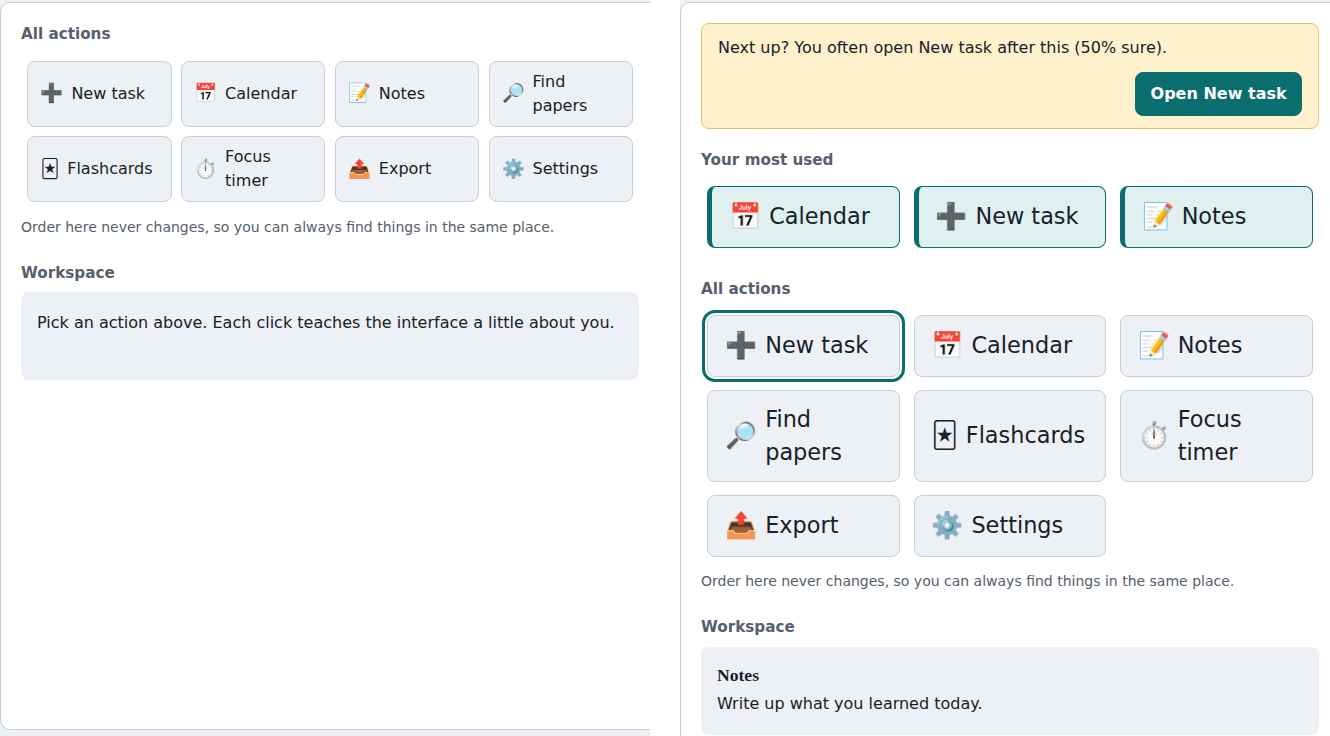
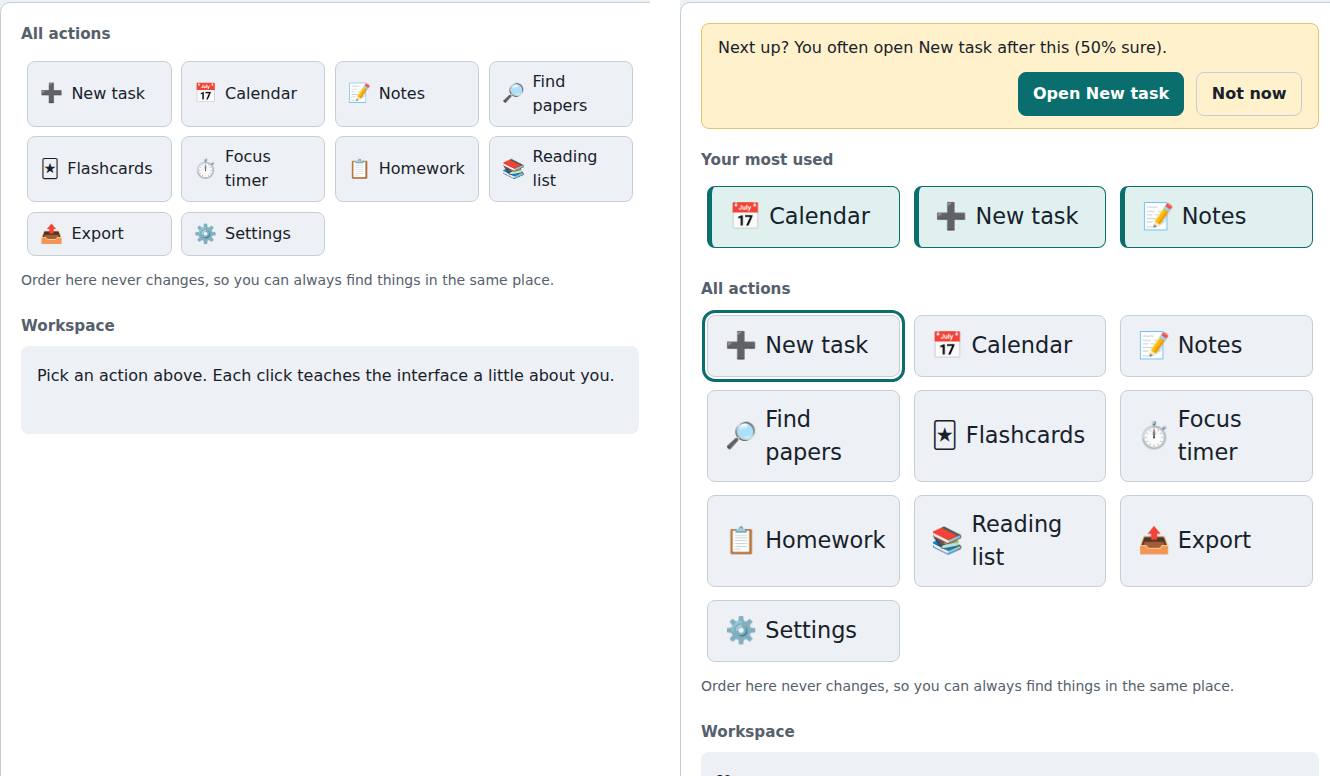
Update StudyDesk to new version

diff --git a/StudyDesk/js/app.js b/StudyDesk/js/app.js
@@ -22,6 +22,8 @@
     { id: "papers", label: "Find papers", icon: "\uD83D\uDD0E", blurb: "Search journals and your saved sources." },
     { id: "flashcards", label: "Flashcards", icon: "\uD83C\uDCCF", blurb: "Review terms before the quiz." },
     { id: "timer", label: "Focus timer", icon: "\u23F1\uFE0F", blurb: "Start a 25 minute focus block." },
+    { id: "homework", label: "Homework", icon: "\uD83D\uDCCB", blurb: "See what is due and submit your work." },
+    { id: "reading", label: "Reading list", icon: "\uD83D\uDCDA", blurb: "Pick up the next paper on your list." },
     { id: "export", label: "Export", icon: "\uD83D\uDCE4", blurb: "Save your notes as a document." },
     { id: "settings", label: "Settings", icon: "\u2699\uFE0F", blurb: "Change how StudyDesk looks and behaves." },
   ];
@@ -53,7 +55,7 @@
         STORAGE_KEY,
         JSON.stringify({
           usage: { scores: usage.scores, counts: usage.counts },
-          sequence: { transitions: sequence.transitions, last: sequence.last },
+          sequence: { transitions: sequence.transitions, last: sequence.last, dismissals: sequence.dismissals },
           pointer: { samples: pointer.samples, missRate: pointer.missRate, level: pointer.level },
           promotedIds,
         })
@@ -71,6 +73,7 @@
       Object.assign(usage.counts, saved.usage.counts);
       sequence.transitions = saved.sequence.transitions || {};
       sequence.last = saved.sequence.last || null;
+      sequence.dismissals = saved.sequence.dismissals || {};
       Object.assign(pointer, saved.pointer);
       promotedIds = (saved.promotedIds || []).filter((id) => IDS.includes(id));
     } catch (err) {
@@ -140,7 +143,12 @@
     btn.dataset.id = suggestionId;
     btn.dataset.suggested = "true";
     btn.textContent = `Open ${byId[suggestionId].label}`;
-    box.replaceChildren(text, btn);
+    const notNow = document.createElement("button");
+    notNow.type = "button";
+    notNow.className = "btn btn-quiet";
+    notNow.dataset.dismiss = "true";
+    notNow.textContent = "Not now";
+    box.replaceChildren(text, btn, notNow);
     box.hidden = false;
   }
 
@@ -272,10 +280,20 @@
 
   $("suggestion").addEventListener("click", (event) => {
     const btn = event.target.closest("button");
-    if (btn && !busy) {
-      onPointer(true);
-      onAction(btn.dataset.id, { fromSuggestion: true });
+    if (!btn || busy) return;
+    if (btn.dataset.dismiss) {
+      // Easy dismissal: the person can reject a suggestion, and the model learns from it.
+      const rejected = suggestionId;
+      sequence.dismiss(rejected);
+      const guess = sequence.predict();
+      suggestionId = guess ? guess.id : null;
+      addLog(`You dismissed the suggestion ${byId[rejected].label}. It will be suggested less often.`);
+      renderAll();
+      save();
+      return;
     }
+    onPointer(true);
+    onAction(btn.dataset.id, { fromSuggestion: true });
   });
 
   $("adaptToggle").addEventListener("change", (event) => {

diff --git a/StudyDesk/js/model.js b/StudyDesk/js/model.js
@@ -83,6 +83,17 @@
       this.alpha = alpha; // Laplace smoothing so unseen transitions are not 0%
       this.transitions = {};
       this.last = null;
+      // Dismissals: how many times the person said "not now" to a suggestion
+      // (from -> to). Each one cancels `dismissPenalty` observed transitions.
+      this.dismissals = {};
+      this.dismissPenalty = 2;
+    }
+
+    /** The person rejected the suggestion "to" after "from". Suggest it less. */
+    dismiss(to, from = this.last) {
+      if (from === null || !this.ids.includes(to)) return;
+      const row = (this.dismissals[from] ||= {});
+      row[to] = (row[to] || 0) + 1;
     }
 
     record(id) {
@@ -103,11 +114,14 @@
     distribution(from = this.last) {
       if (from === null) return {};
       const row = this.transitions[from] || {};
-      const total = this.observationsFrom(from);
-      const denom = total + this.alpha * this.ids.length;
-      return Object.fromEntries(
-        this.ids.map((id) => [id, ((row[id] || 0) + this.alpha) / denom])
+      const rejected = this.dismissals[from] || {};
+      // Observed counts minus the weight of any dismissals (never below zero).
+      const counts = Object.fromEntries(
+        this.ids.map((id) => [id, Math.max(0, (row[id] || 0) - this.dismissPenalty * (rejected[id] || 0))])
       );
+      const total = Object.values(counts).reduce((sum, n) => sum + n, 0);
+      const denom = total + this.alpha * this.ids.length;
+      return Object.fromEntries(this.ids.map((id) => [id, (counts[id] + this.alpha) / denom]));
     }
 
     /**

diff --git a/StudyDesk/tests/model.test.js b/StudyDesk/tests/model.test.js
@@ -72,6 +72,28 @@ test("SequenceModel: probabilities sum to 1", () => {
   assert.ok(Math.abs(total - 1) < 1e-9);
 });
 
+test("SequenceModel: dismissing a suggestion lowers it until it stops appearing", () => {
+  const m = new SequenceModel(IDS);
+  for (let i = 0; i < 5; i++) ["a", "b", "c"].forEach((id) => m.record(id));
+  m.record("a");
+  const before = m.predict();
+  assert.strictEqual(before.id, "b");
+  m.dismiss("b");
+  const afterOne = m.distribution().b;
+  assert.ok(afterOne < before.confidence, "one dismissal should lower confidence");
+  m.dismiss("b");
+  m.dismiss("b");
+  assert.strictEqual(m.predict(), null, "three dismissals should silence it");
+});
+
+test("SequenceModel: probabilities still sum to 1 after dismissals", () => {
+  const m = new SequenceModel(IDS);
+  ["a", "b", "a", "b", "a", "c", "a"].forEach((id) => m.record(id));
+  m.dismiss("b");
+  const total = Object.values(m.distribution()).reduce((s, p) => s + p, 0);
+  assert.ok(Math.abs(total - 1) < 1e-9);
+});
+
 test("PointerModel: accurate clicking keeps buttons at normal size", () => {
   const m = new PointerModel();
   for (let i = 0; i < 30; i++) m.record(true);

diff --git a/StudyDesk/css/style.css b/StudyDesk/css/style.css
@@ -91,7 +91,7 @@ body {
   background: var(--amber-soft); border: 1px solid #e0c56b; border-radius: 8px;
 }
 .suggestion[hidden], #promotedBlock[hidden] { display: none; }
-.suggestion .btn { margin-left: auto; }
+.suggestion span + .btn { margin-left: auto; }
 
 .btn {
   font: inherit; font-weight: 600; color: #fff; background: var(--teal);

diff --git a/StudyDesk/README.md b/StudyDesk/README.md
@@ -18,7 +18,7 @@ node tests/model.test.js
 | Adaptation | Learning method | What the user sees |
 |---|---|---|
 | Frequently used actions | Recency-weighted frequency scores with hysteresis | A "Your most used" row of up to 3 buttons. The main grid never reorders. |
-| Next-action suggestion | First-order Markov chain with Laplace smoothing | A "Next up?" card, shown only when the model is confident. |
+| Next-action suggestion | First-order Markov chain with Laplace smoothing | A "Next up?" card, shown only when the model is confident. Pressing "Not now" teaches it to suggest that action less. |
 | Button size | Moving average of missed clicks | Buttons grow to 120% or 140% when many clicks land in the gaps. |
 
 Every change is listed under "Why things changed", and the "Adapt to my behavior" switch turns all adaptation off.
@@ -38,7 +38,7 @@ index.html          page structure
 css/style.css       styles; button size follows the --target-scale variable
 js/model.js         the three learning models (works in browser and Node)
 js/app.js           connects the models to the page and explains each change
-tests/model.test.js 11 unit tests for the models
+tests/model.test.js 13 unit tests for the models
 docs/               screenshots and figures used in the report
 ```
 
